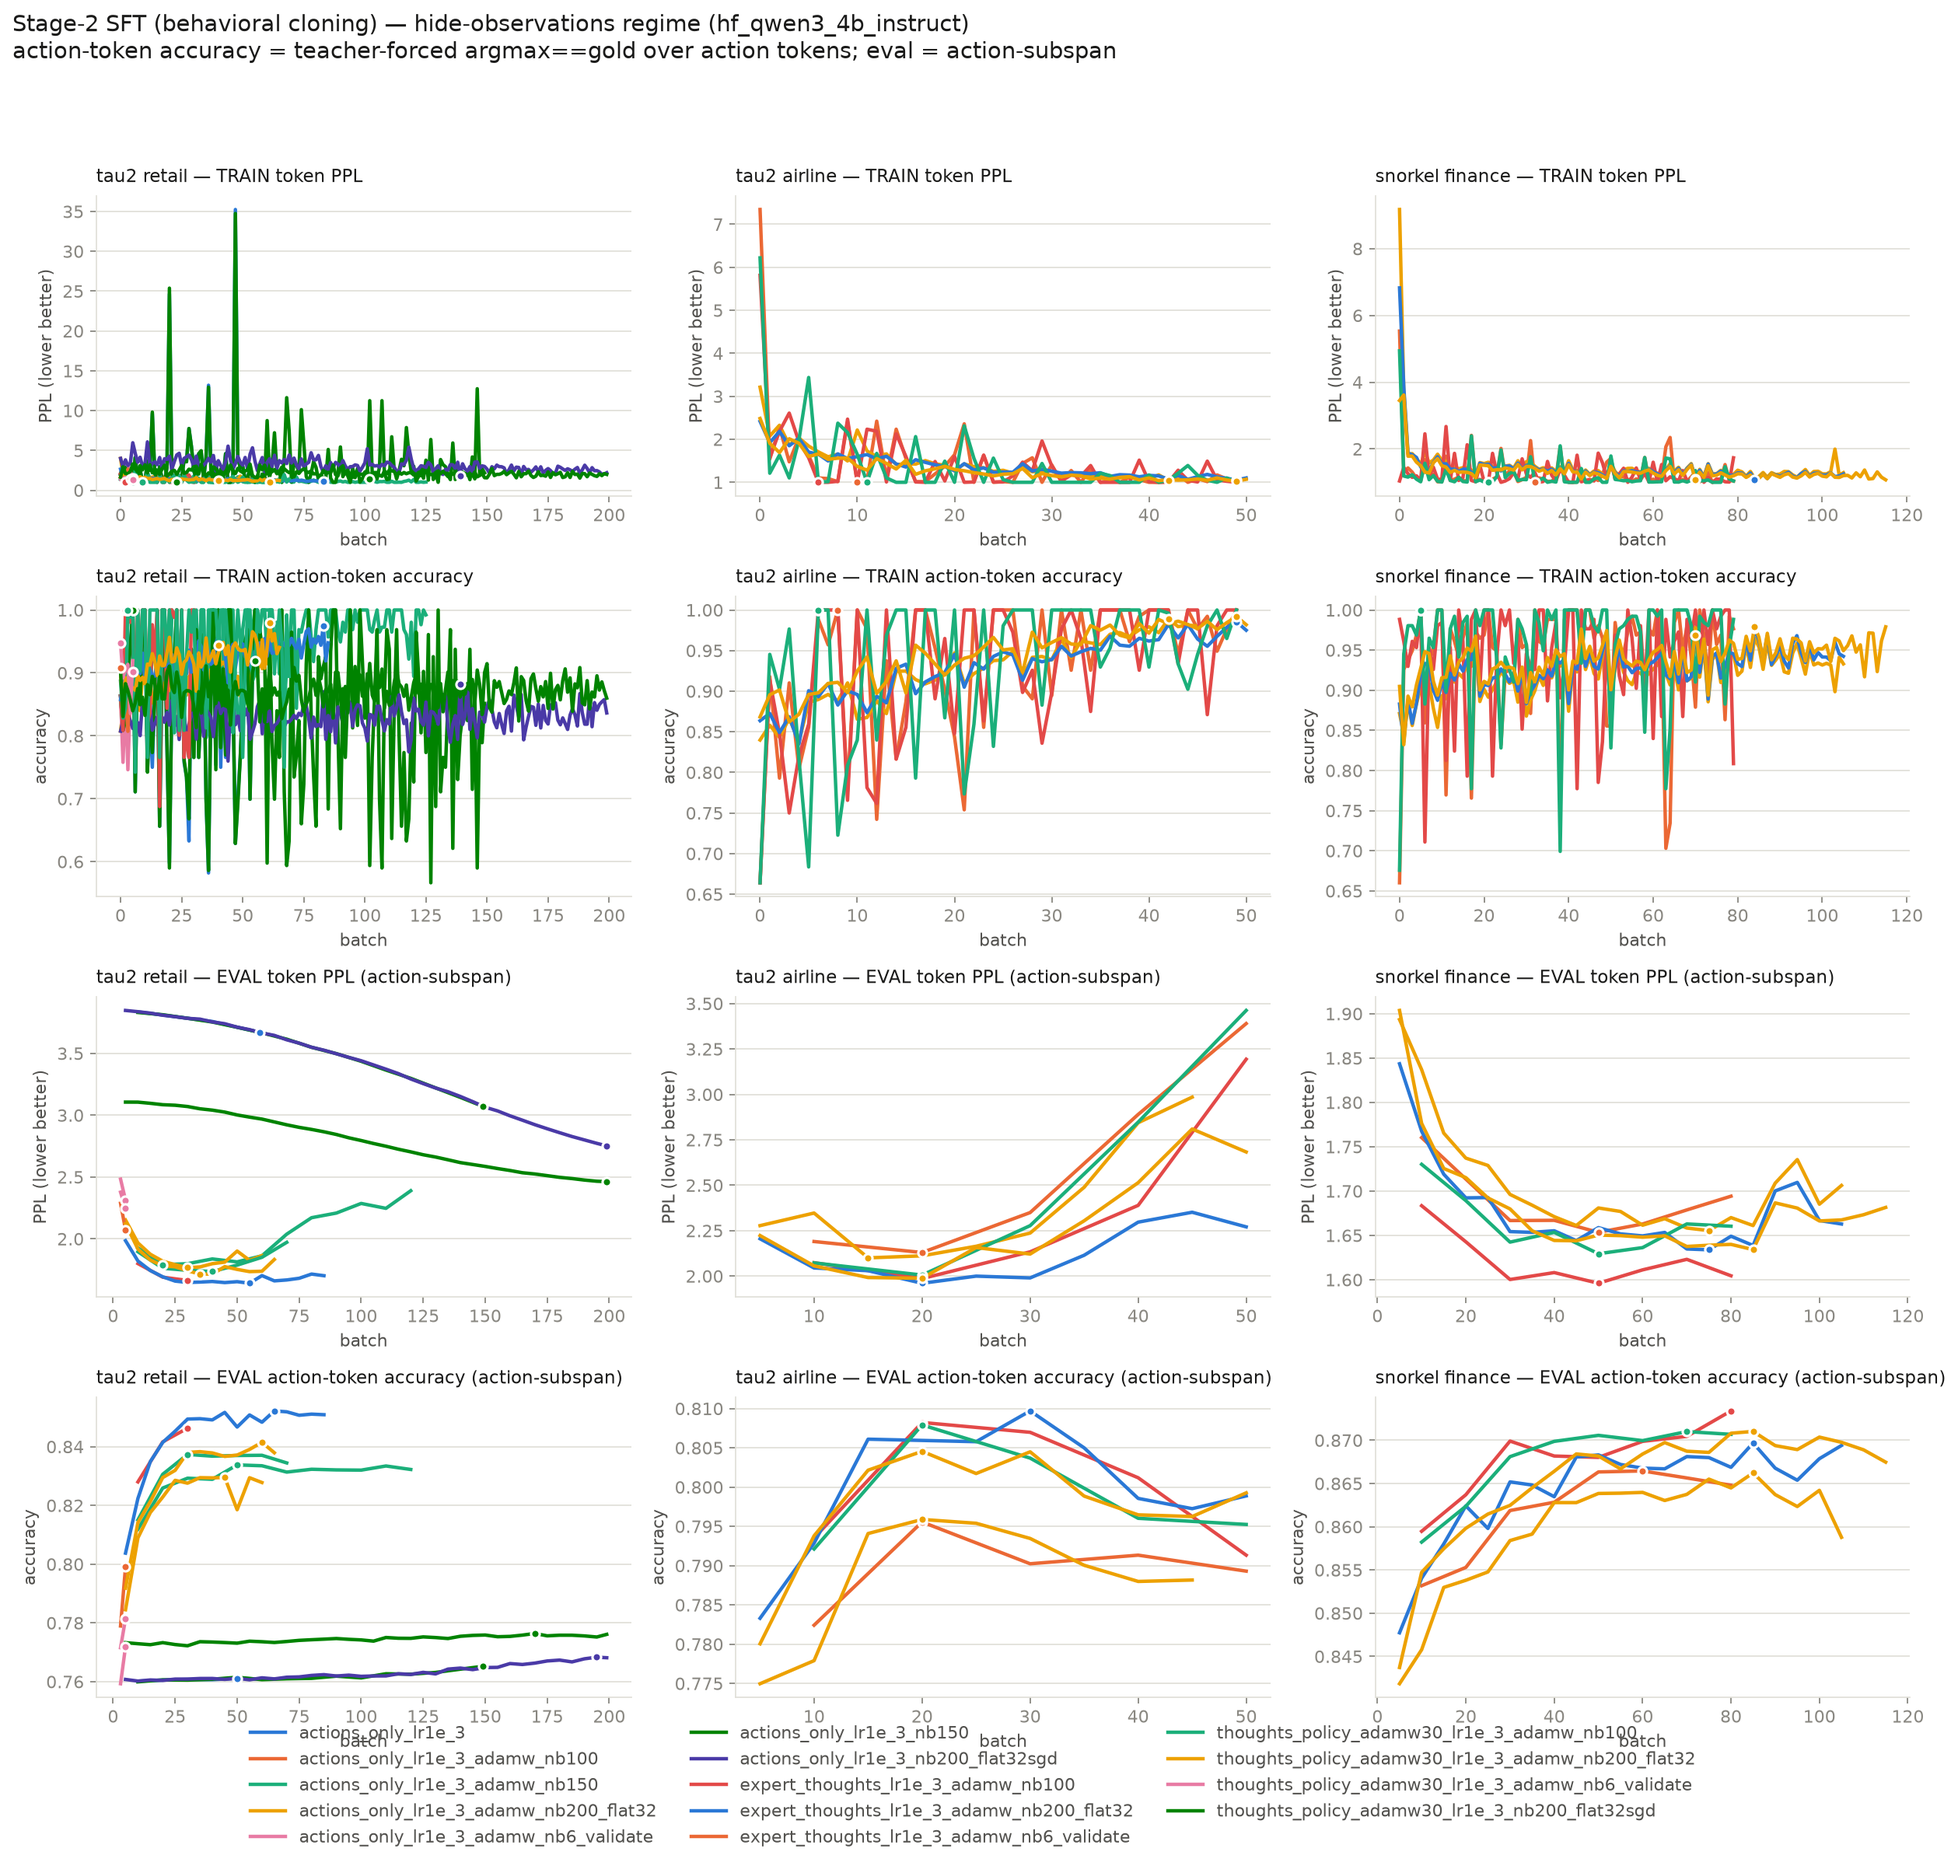
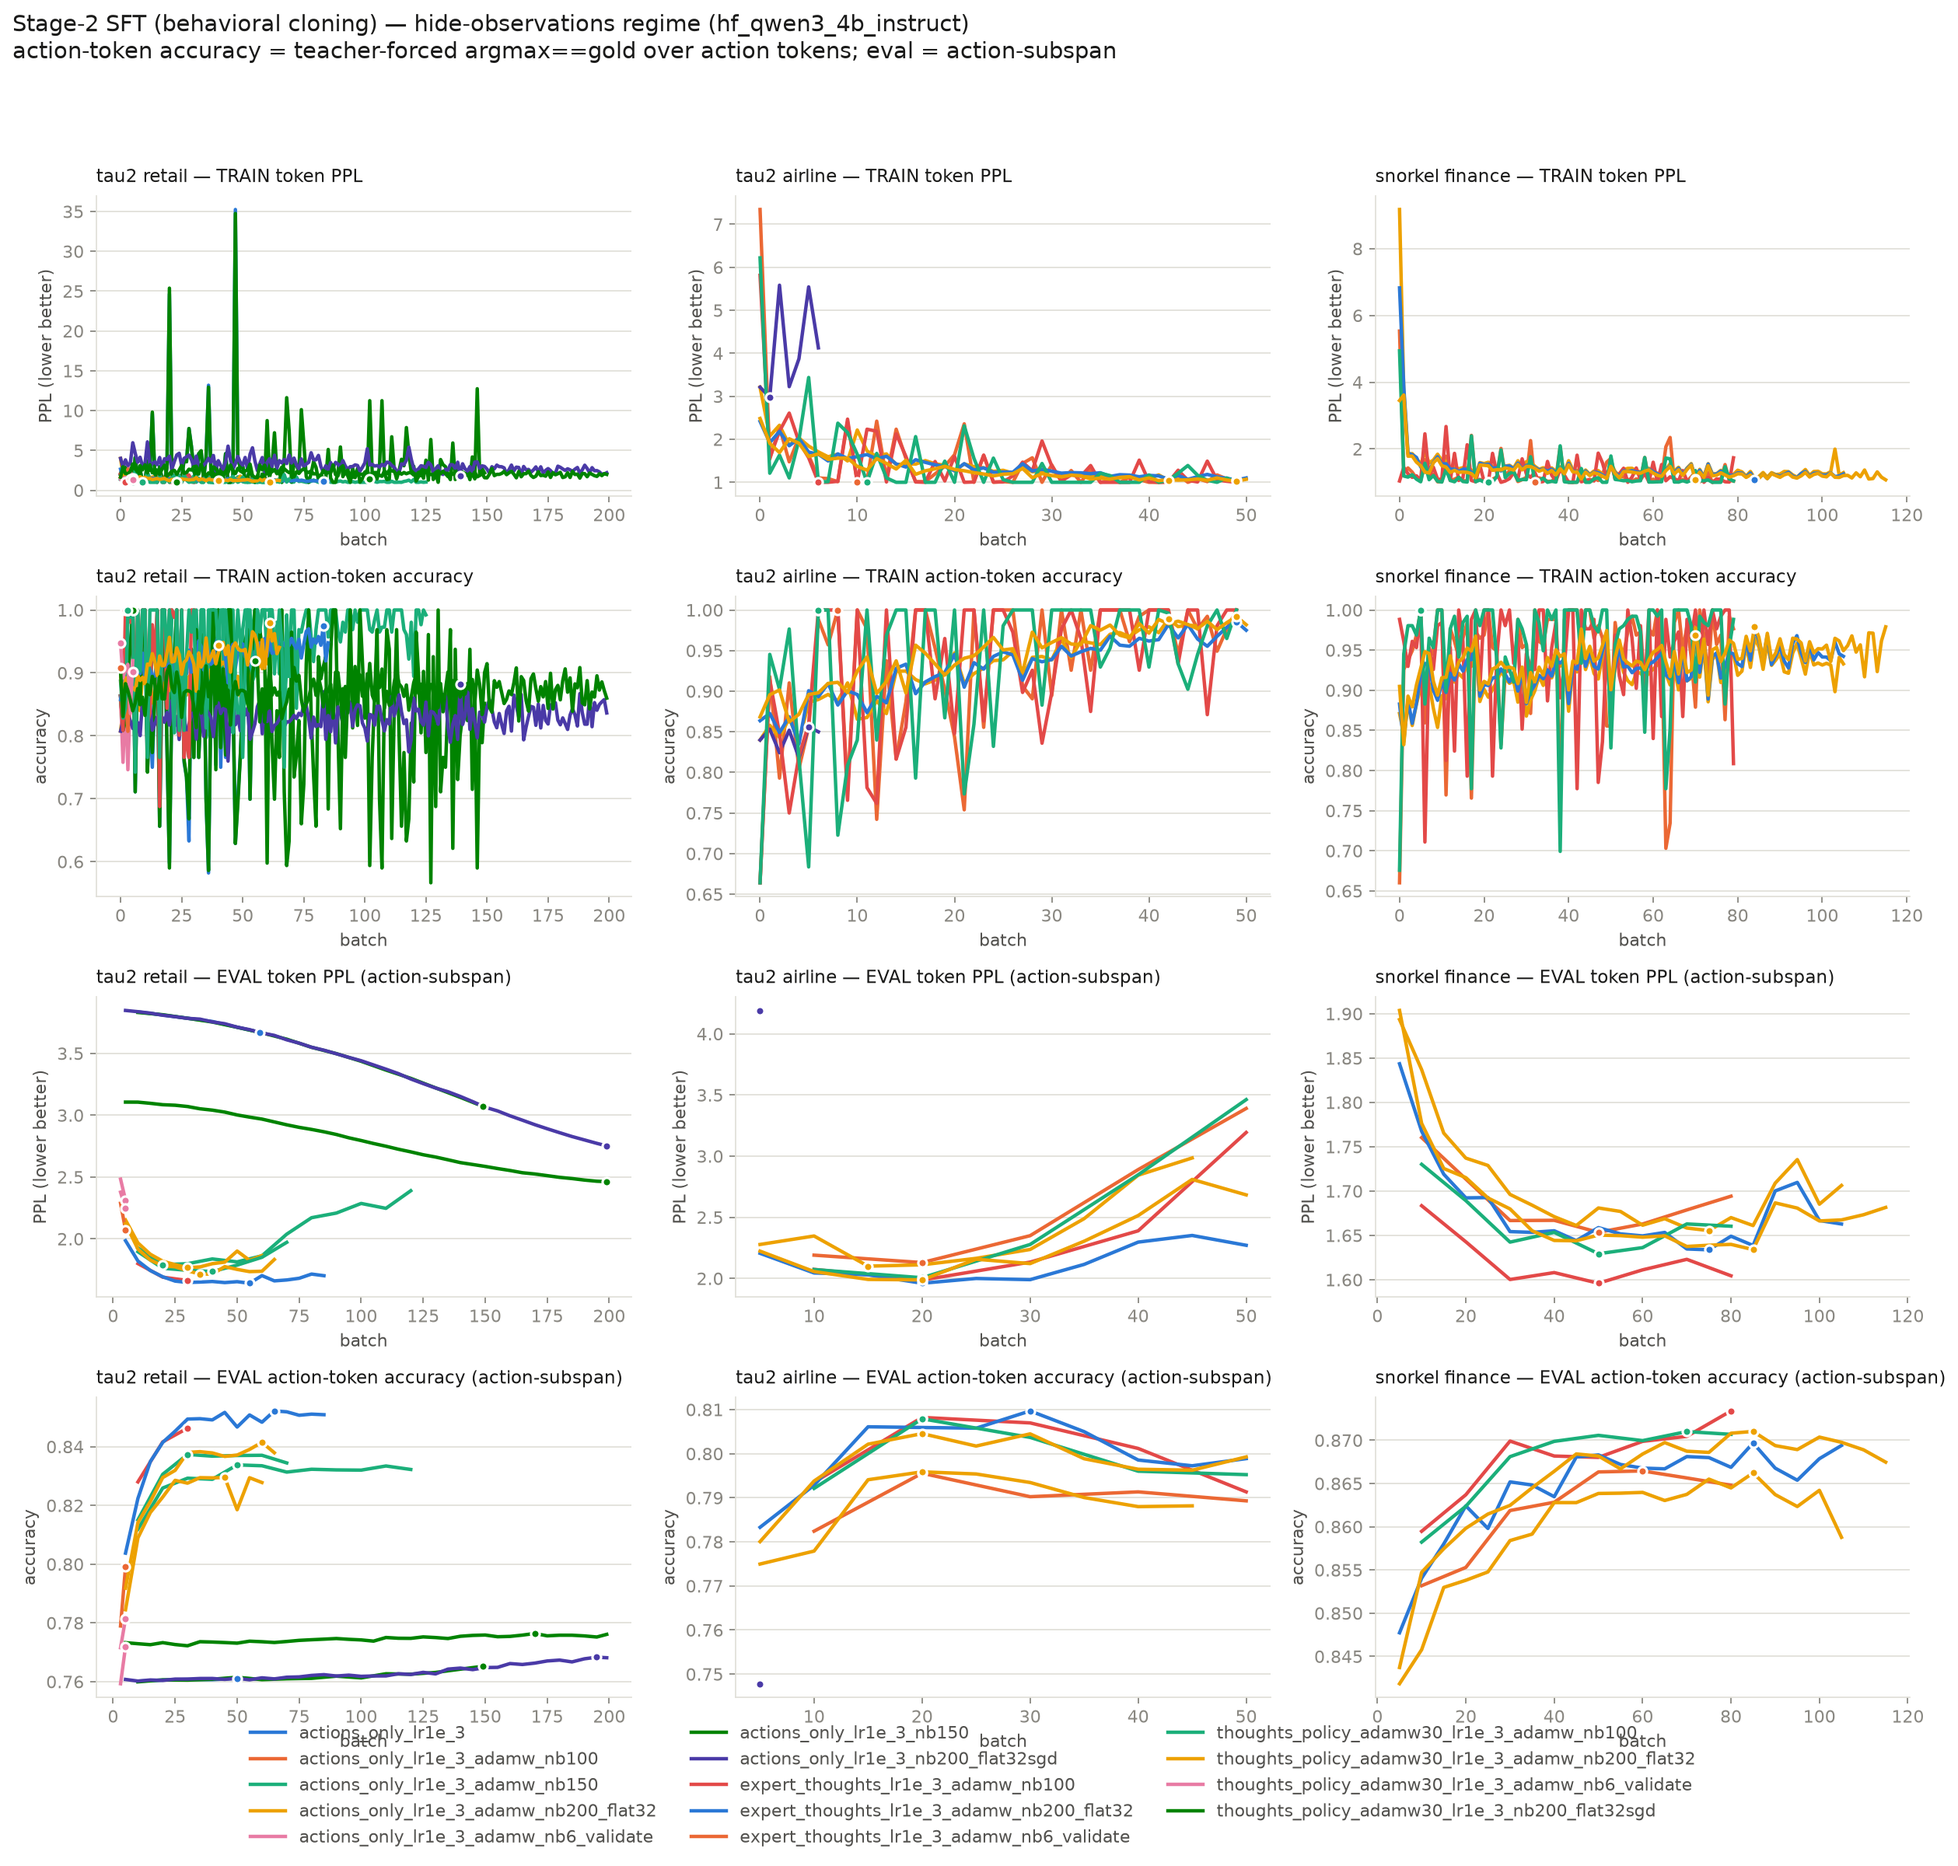
auto: SFT LR sweep results snapshot

diff --git a/notes/cc-12.0-sgd-reversion.md b/notes/cc-12.0-sgd-reversion.md
@@ -230,7 +230,8 @@ artifact of the old corpus or old trainer path.
 | 5 | **RETRACTED: "SGD makes train PPL worse."** I reported `thoughts_policy` @3e-3 going 1.6399 → 1.8271 and called it a reproduction of the old SGD run's 2.192 → 2.503. Both are artifacts. | — | `train/*_ppl` is a **per-batch** statistic. `sft_flat` draws a fresh random 32-step batch each time (sd 0.45 in b0–24, range 1.64–3.28), and the old `sft` path batched per-trajectory at bs=4 (sd **1.2–3.8**, maxima to 22.4). 1.6399 was the *minimum* of the first window, 1.8271 one late draw against a mean of 1.793. **Always window this metric** (25-batch means) before reading a trend; first-vs-last is meaningless here. Windowed, every run improves monotonically. |
 | 6 | **`rollouts_per_task.jsonl` mixes splits.** The file had **44 rows for 42 eval tasks**, so a naive `mean(final_reward)` gave 29.5–31.7% depending on when it was read. | — | 42 eval rows + **2 train rows** (1 train task × 2 generations): `rl.py` deliberately generates train rollouts even in rollout-only mode, and the env carries `train: 1 task`. **Always filter `split=="eval"`** before scoring; also dedupe on `task_id` since `gen_id` can exceed 0. Correct figure 13/42 = 31.0%. |
 | 7 | **Trajectories were never saved.** The user asked for trajectories + completions + scores; only scores existed. `save_rollouts_every: 0`, and `logs.log` holds reset observations + LiteLLM noise, not conversations. | use the built-in `generate_and_save_trajectories` | Rejected — it runs a **second generation pass** (~80 min/rollout) and re-generates rather than capturing the episodes actually scored. Instead added an opt-in dump inside `_dump_per_task_records` (`trainer/train.py`) writing `<log_path>/trajectories.jsonl` from the final `EpisodeStep`'s `state + action + next_obs`. Gated by env var `ACT_PRM_DUMP_TRAJECTORIES=1`, **not** a cfg key, because `update_configs` silently drops flags whose key isn't already declared in the target yaml. Exported in `run_sft_rollout_eval.sh`. Unit-tested offline first — the dump sits inside a bare `except: pass`, so a bug would have silently produced nothing for all remaining rollouts. Rollout 1 predates the fix and must be re-run under a distinct tag to recover its trajectories. |
-| 8 | **`report_checkpoint_grid.py` contends for the GPU** with in-flight rollouts, and takes >10 min for a 20-snapshot ladder (exceeding my shell timeout mid-run). | — | Run it *between* phases, or backgrounded; the `thoughts_policy` 3e-3 grid is still outstanding for this reason. |
+| 8 | **The nb1000 run silently did nothing.** `chain_sgd_long.sh` logged "TRAIN SGD 1e-3 nb1000 ... ~8.5h" then `rc=0` **20 seconds later**, and the follow-on rollout reported "step_best MISSING". | — | I passed `VARIANTS="thoughts_policy"`, but with `CORPUS_VARIANTS="_adamw30"` the sweep's label is `thoughts_policy_adamw30` (`run_sft_sweep.sh:133` — `run_one thoughts_policy "thoughts_policy$k"`) and the `VARIANTS` filter matches the **label**, not the variant. Nothing matched, the sweep enumerated its arms and exited 0. `run_sgd_flat.sh` had this right; I regressed it when bypassing that script. **A sweep that matches zero arms exits 0** — so never treat sweep `rc=0` as evidence of work. `chain_nb1000_retry.sh` now counts produced snapshots and aborts if zero. |
+| 9 | **`report_checkpoint_grid.py` contends for the GPU** with in-flight rollouts, and takes >10 min for a 20-snapshot ladder (exceeding my shell timeout mid-run). | — | Run it *between* phases, or backgrounded; the `thoughts_policy` 3e-3 grid is still outstanding for this reason. |
 
 ## Caveats on the conclusion this arc can support
 

diff --git a/notes/cc-5.0-sft-lr-investigation.md b/notes/cc-5.0-sft-lr-investigation.md
@@ -379,6 +379,7 @@ retail/thoughts_policy_adamw30_lr1e_3_adamw_nb6_validate hide    5     2.3775 ->
 retail/thoughts_policy_adamw30_lr1e_3_nb200_flat32sgd hide  199     3.1058 ->   2.4625  20.71%  0.7761        1.9910
 airline/actions_only_lr1e_3_adamw_nb100              hide   50     2.1901 ->   3.3899 -54.78%  0.7893        1.0000  <running>
 airline/actions_only_lr1e_3_adamw_nb200_flat32       hide   45     2.2776 ->   2.9850 -31.06%  0.7882        1.0679  <running>
+airline/actions_only_lr1e_3_nb200_flat32sgd          hide    6     4.1913 ->   4.1913   0.00%  0.7478        4.1262  <running>
 airline/expert_thoughts_lr1e_3_adamw_nb100           hide   50     2.0737 ->   3.1936 -54.00%  0.7913        1.0000  <running>
 airline/expert_thoughts_lr1e_3_adamw_nb200_flat32    hide   50     2.2052 ->   2.2707  -2.97%  0.7989        1.1013  <running>
 airline/thoughts_policy_adamw30_lr1e_3_adamw_nb100   hide   50     2.0724 ->   3.4621 -67.06%  0.7952        1.0000  <running>
@@ -390,9 +391,9 @@ snorkel_finance_split/expert_thoughts_lr1e_3_adamw_nb200_flat32 hide  105     1.
 snorkel_finance_split/thoughts_policy_adamw30_lr1e_3_adamw_nb100 hide   80     1.7302 ->   1.6604   4.03%  0.8707        1.0391  <running>
 snorkel_finance_split/thoughts_policy_adamw30_lr1e_3_adamw_nb200_flat32 hide  115     1.9037 ->   1.6815  11.67%  0.8675        1.0747  <running>
 
-7/26 arms complete   (Δ% = held-out action-subspan PPL improvement, higher is better)
+7/27 arms complete   (Δ% = held-out action-subspan PPL improvement, higher is better)
 ```
-_last refreshed: 2026-09-02 04:40_
+_last refreshed: 2026-09-02 05:00_
 <!--/RESULTS-->
 
 ## Infrastructure

diff --git a/notes/cc-3.0-airline_sft_results.md b/notes/cc-3.0-airline_sft_results.md
@@ -21,6 +21,7 @@ for wordiness rather than for mispredicting the action, which inverts the rankin
 | thoughts_base | full | 3.3788 | 0.7626 | 59 | 3.8010 | 0.7300 | 30 | 1.0195 |
 | actions_only_lr1e_3_adamw_nb100 | hide | 2.1296 | 0.7956 | 20 | 2.1296 | 0.7956 | 20 | 0.0004 |
 | actions_only_lr1e_3_adamw_nb200_flat32 | hide | 2.1001 | 0.7941 | 15 | — | — | — | 0.0631 |
+| actions_only_lr1e_3_nb200_flat32sgd | hide | 4.1913 | 0.7478 | 5 | — | — | — | 1.0279 |
 | actions_only_lr3e_3_nb150 | hide | 2.4506 | 0.7629 | 149 | 2.4506 | 0.7629 | 149 | 0.9820 |
 | expert_thoughts_all_lr3e_3_nb150 | hide | 2.4185 | 0.7530 | 149 | 4.0115 | 0.6414 | 149 | 1.0439 |
 | expert_thoughts_all_lr3e_3_nb150_fixeval | hide | 2.3673 | 0.7715 | 149 | 3.6306 | 0.6702 | 149 | 1.0437 |
@@ -54,6 +55,7 @@ that saved step:
 | thoughts_base | full | 3.3817 | 0.7628 |
 | actions_only_lr1e_3_adamw_nb100 | hide | 2.1296 | 0.7956 |
 | actions_only_lr1e_3_adamw_nb200_flat32 | hide | — | — |
+| actions_only_lr1e_3_nb200_flat32sgd | hide | — | — |
 | actions_only_lr3e_3_nb150 | hide | 2.4506 | 0.7629 |
 | expert_thoughts_all_lr3e_3_nb150 | hide | 2.4185 | 0.7530 |
 | expert_thoughts_all_lr3e_3_nb150_fixeval | hide | 2.3673 | 0.7715 |
